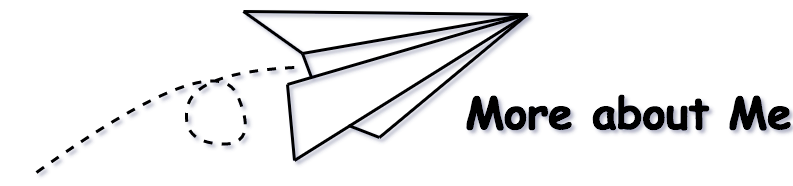
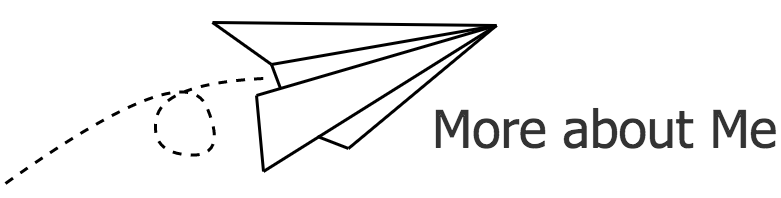
hover

diff --git a/index.html b/index.html
@@ -31,8 +31,8 @@
 					</div>
 					<div class="row">
 						<div class="col">
-							<h2 class="font-weight-light" style="margin-bottom: 1.3em">Senior Informatics Student at UC Irvine<br>UI Designer | UX Researcher | Traveller</h2>
-						    <a href="aboutme.html" class ="box"><img src="button2.png"  height="66" width="320" align="right" style="margin-bottom: 2em" > </a>
+							<h2 class="font-weight-light" style="margin-bottom: 0.7em">Senior Informatics Student at UC Irvine<br>UI Designer | UX Researcher | Traveller</h2>
+						    <a href="aboutme.html" class ="box"><img src="button7.png"  height="100" width="325" align="right" style="margin-bottom: 0.5em; border-right: dotted;border-bottom: dotted; border-width: 2px; border-radius: 13px"  > </a>
 
 						</div>
 

diff --git a/main.css b/main.css
@@ -49,6 +49,26 @@ Profile.jpeg@import url('https://fonts.googleapis.com/css?family=Josefin+Sans|Qu
 	font-weight: bolder;
 }
 
+a.box:link {
+    color: #f8d7da;
+}
+
+
+a.box:visited {
+    color: #f8d7da;
+}
+
+
+a.box:hover {
+    color: grey}
+
+
+a.box:active {
+    color: #f8d7da;
+}
+
+
+
 h1, h2, h3, h4, h5, p {
 	font-family: 'Quattrocento Sans', sans-serif;
 	padding: 0;
